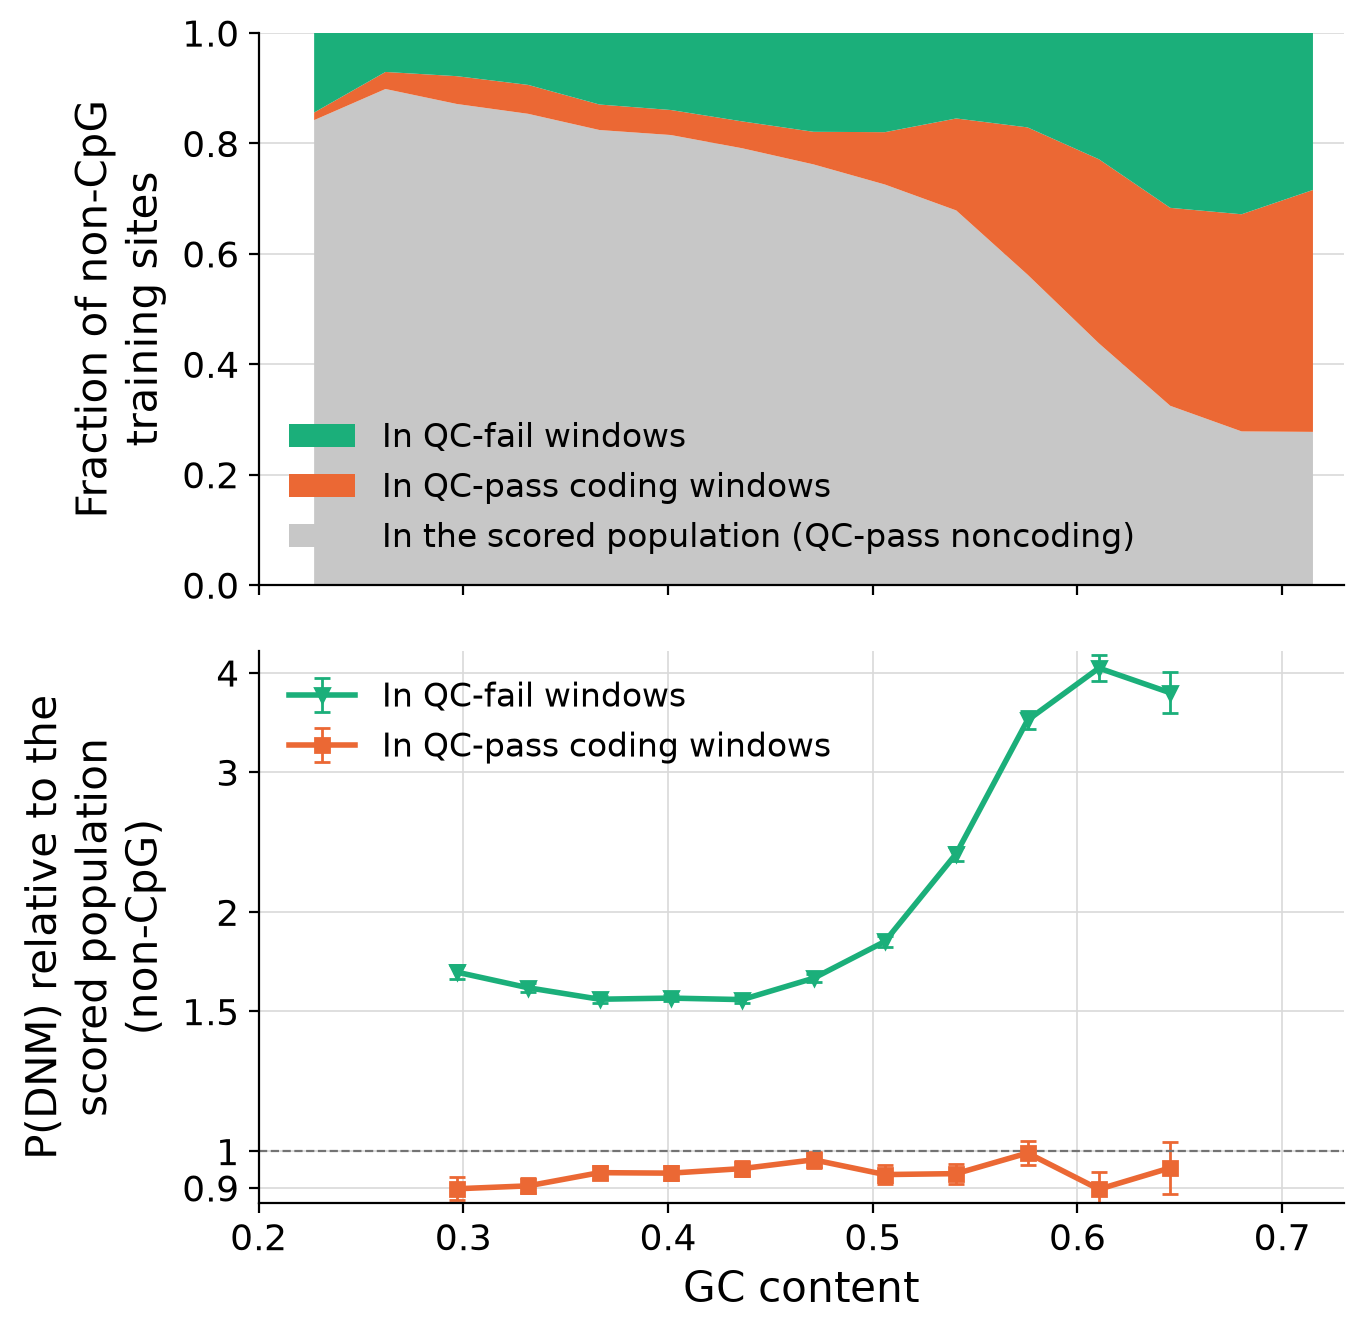
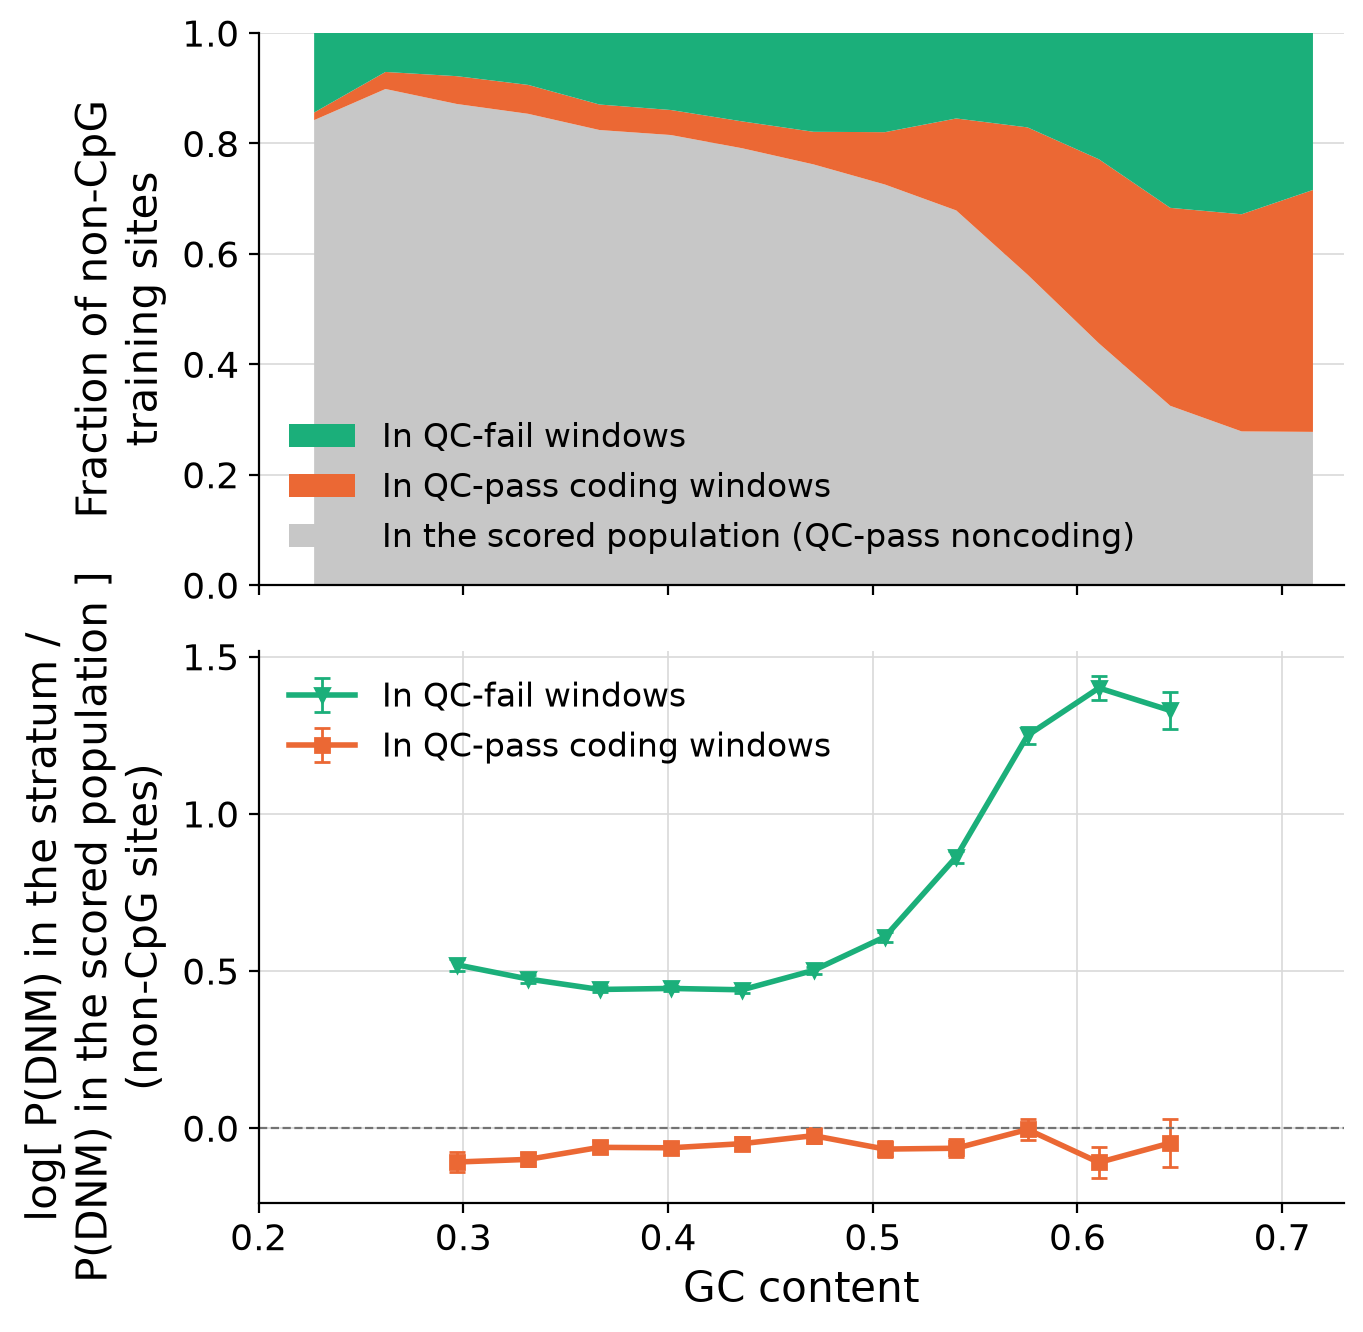
fig5: plot panel C's lower row as a log ratio on a linear axis
se_log is by construction the SE of log(ratio), so log(ratio) against a
linear axis is the one form in which the bar drawn is the interval the
data support -- a plain +/- se, with no transformation in between. The
previous form plotted the ratio on a log axis with the bars mapped back
to linear space; self-consistent, but the axis limits were set from the
ratio values alone, so the top bin's upper bar was clipped by an axis
that never saw it.

The y-label writes the ratio out inside the log, since the reader is
being asked to read 0.44 as 1.55x. Plain text at the panel's own type
size rather than a mathtext \dfrac, which renders smaller and in a
different font from every other label in the figure.

Notebook prose gives the SE formula and each quoted ratio with its log;
_log_ratio_axis is untouched and still serves panels B and the CpG
figure, where the plotted r carries no log-scale SE.

diff --git a/fig5/panels.py b/fig5/panels.py
@@ -297,8 +297,16 @@ def panel_stratum_ratios(ax, ratios, xrange=(0.2, 0.73), show_xlabel: bool = Tru
     which is also where trio DNM calling is least reliable, making part of that excess
     plausibly false-positive calls rather than real mutation.
 
-    A ratio of 1 is the reference: the excluded sites would then be exchangeable with
+    A log ratio of 0 is the reference: the excluded sites would then be exchangeable with
     the scored ones as far as mutation rate is concerned.
+
+    WHY THE LOG, ON A LINEAR AXIS. `se_log` is by construction the standard error of
+    log(ratio) -- the delta-method binomial SE, symmetric in that quantity and in no
+    other -- so plotting log(ratio) against a linear axis is the one form in which the
+    error bar drawn is the interval the data support, `estimate +/- se`, with no
+    transformation between the two. It also puts a 2x excess and a 2x deficit at equal
+    distances from the reference line, which a linear ratio axis would not. Natural log,
+    matching se_log: 0.44 is the 1.55x of the GC bulk, 1.40 the 4.06x at GC 0.61.
     """
     df = ratios.to_pandas() if hasattr(ratios, "to_pandas") else ratios
     df = df.sort_values("gc_mid")
@@ -308,21 +316,24 @@ def panel_stratum_ratios(ax, ratios, xrange=(0.2, 0.73), show_xlabel: bool = Tru
     handles = {}
     for stratum in drawn:
         style = STRATUM_STYLE[stratum]
-        r, se = df[f"{stratum}_ratio"], df[f"{stratum}_se_log"]
-        # Symmetric in log space -> asymmetric in linear space, correct for a ratio.
+        log_r, se = np.log(df[f"{stratum}_ratio"]), df[f"{stratum}_se_log"]
         handles[stratum] = ax.errorbar(
-            df["gc_mid"], r, yerr=[r - r * np.exp(-se), r * np.exp(se) - r],
+            df["gc_mid"], log_r, yerr=se,
             marker=style["marker"], color=style["color"], markersize=5,
             linewidth=2, capsize=3, elinewidth=1, label=style["label"])
-    ax.axhline(1.0, **REF_LINE_KW)
-    _log_ratio_axis(ax, df[[f"{s}_ratio" for s in drawn]].to_numpy(),
-                    ticks=(0.8, 0.9, 1.0, 1.5, 2.0, 3.0, 4.0, 5.0))
+    ax.axhline(0.0, **REF_LINE_KW)
     # Highest curve first, matching the row above, where the legend reads top-down. Which
     # stratum is highest is a result here rather than a layout fact, so it is read off the
-    # data instead of hardcoded -- an other-noncoding curve near 1 would land between the
+    # data instead of hardcoded -- an other-noncoding curve near 0 would land between the
     # QC-fail and coding ones, and the legend follows it there.
-    order = sorted(drawn, key=lambda s: float(df[f"{s}_ratio"].mean()), reverse=True)
-    _finish(ax, "P(DNM) relative to the\nscored population\n(non-CpG)", xrange,
+    order = sorted(drawn, key=lambda s: float(np.log(df[f"{s}_ratio"]).mean()),
+                   reverse=True)
+    # The ratio written out inside the log, rather than "log P(DNM) relative to ...":
+    # what is logged has to be unambiguous, since the reader is being asked to read 0.44
+    # as 1.55x. Plain text at the panel's own type size, not a mathtext \\dfrac, which
+    # renders smaller and in a different font from every other label in the figure.
+    _finish(ax, "log[ P(DNM) in the stratum /\nP(DNM) in the scored population ]"
+                "\n(non-CpG sites)", xrange,
             show_xlabel, handles=[handles[s] for s in order])
 
 

diff --git a/fig5/make_fig5_nb.py b/fig5/make_fig5_nb.py
@@ -588,13 +588,22 @@ two come apart exactly where panel A's bias is largest.
 **The part of the DNM training set that lies outside the scored population has a
 different DNM rate** — that is what the lower row measures, and the difference is not
 mainly the coding part. Writing $\bar y_s(g)$ for the empirical
-non-CpG DNM rate in stratum $s$ and bin $g$, it plots $\bar y_s(g)/\bar
-y_{\mathrm{scored}}(g)$ for each excluded stratum, with delta-method binomial error bars
-on the log ratio. A ratio of 1 would mean those sites are exchangeable with the scored
-ones as far as mutation rate goes. The coding stratum sits there — within ~10%, flat
-across the whole range — while the QC-failing stratum runs 1.55× in the GC bulk and
-**4.06× by GC 0.61**. Under the narrowed population, read the other-noncoding curve
-first: near 1 across the range, the narrowing costs sample size and nothing else and the
+non-CpG DNM rate in stratum $s$ and bin $g$, it plots
+$\log\!\big[\bar y_s(g)/\bar y_{\mathrm{scored}}(g)\big]$ for each excluded stratum,
+against a linear axis, with error bars $\pm\,\mathrm{SE}$ where
+
+$$\mathrm{SE}\Big(\log\frac{\bar y_s}{\bar y_{\mathrm{scored}}}\Big)
+=\sqrt{\frac{1-\bar y_s}{k_s}+\frac{1-\bar y_{\mathrm{scored}}}{k_{\mathrm{scored}}}},$$
+
+the delta-method binomial SE with $k$ the DNM count. That SE is symmetric in the log
+ratio and in nothing else, so the log is the scale on which the bar drawn is the
+interval the data support; it also puts a $2\times$ excess and a $2\times$ deficit
+equally far from the reference line. Zero would mean those sites are exchangeable with
+the scored ones as far as mutation rate goes. The coding stratum sits there — within
+~10%, i.e. $|\log|\lesssim0.1$, flat across the whole range — while the QC-failing
+stratum runs 1.55× ($\log = 0.44$) in the GC bulk and **4.06× ($\log = 1.40$) by
+GC 0.61**. Under the narrowed population, read the other-noncoding curve
+first: flat at 0 across the range, the narrowing costs sample size and nothing else and the
 rest of this figure carries over; climbing with GC, it is a third population change and
 belongs in the caption beside the other two.
 

diff --git a/fig5/data.py b/fig5/data.py
@@ -579,9 +579,12 @@ def stratum_ratios(st: pl.DataFrame, edges: np.ndarray, min_n: int = 2000) -> pl
     territory DIFFERENT from the territory Gnocchi is scored on -- and because the
     scored population's own rate drifts mildly with GC, which a ratio divides out.
 
-    Error bars are the delta-method SE of log(ratio), SE = sqrt((1-p_a)/k_a +
-    (1-p_b)/k_b), i.e. binomial noise in both strata. min_n drops bins where either
-    stratum holds fewer than that many sites.
+    `{stratum}_se_log` is the delta-method SE of log(ratio), SE = sqrt((1-p_a)/k_a +
+    (1-p_b)/k_b), i.e. binomial noise in both strata (Var(log p_hat) = Var(p_hat)/p^2 =
+    (1-p)/(n p) = (1-p)/k, with k the DNM count). It is the SE of the LOG ratio and of
+    nothing else, which is why panel C plots log(ratio) on a linear axis and draws the
+    bars as a plain +/- se there. min_n drops bins where either stratum holds fewer than
+    that many sites.
 
     Columns: gc_bin, gc_mid, and {stratum}_{ratio,se_log} for each excluded stratum that
     has any bin left after min_n -- so an empty `other_noncoding` stratum contributes no

diff --git a/fig5/README.md b/fig5/README.md
@@ -7,9 +7,10 @@ cited there as 7A-7D. Run it top to bottom.
 
 **Panel C is two rows** sharing a GC axis and built from one table: the composition of
 the training sites (how much of the training set is outside the scored population --
-*covariate shift*), and each other stratum's DNM rate relative to the scored population's
-(whether the part of the training set lying outside it has a *different DNM rate* --
-*concept shift*). The upper row alone shows only an absence. Both rows count **both training classes**, DNMs and
+*covariate shift*), and the LOG of each other stratum's DNM rate relative to the scored
+population's (whether the part of the training set lying outside it has a *different DNM
+rate* -- *concept shift*; the log because `se_log` is by construction the SE of that
+quantity, so the bars drawn are a plain +/- se on a linear axis). The upper row alone shows only an absence. Both rows count **both training classes**, DNMs and
 background sites: the fit minimizes its loss over the mixture, so the mixture is the
 training distribution being compared against the scored one. Its bottom band is the
 scored population itself, defined by MEMBERSHIP in the analyzed window table (`data.py`,
